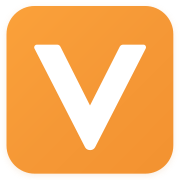
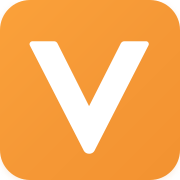
feat(branding): refresh Vecsy identity assets

diff --git a/index.html b/index.html
@@ -9,33 +9,35 @@
       #root[data-booting] { min-height: 100vh; background: #0a0a0c; }
       #root[data-booting] > * { visibility: hidden; }
     </style>
-    <link rel="icon" type="image/svg+xml" href="/favicon.svg?v=346ae5fd" />
+    <link rel="icon" type="image/svg+xml" href="/favicon.svg?v=9f832763" />
+    <link rel="icon" type="image/png" sizes="32x32" href="/favicon-32.png" />
+    <link rel="icon" type="image/png" sizes="16x16" href="/favicon-16.png" />
     <link rel="apple-touch-icon" href="/apple-touch-icon.png" />
     <link rel="manifest" href="/manifest.json" />
 
-    <title>Vector Forge — Free Online SVG Editor in Your Browser</title>
-    <meta name="description" content="Vector Forge is a free browser-based SVG editor. Import any SVG, inspect and rearrange layers, edit fills, strokes and transforms live, and export optimized markup — no install, no account." />
+    <title>Vecsy — Free Online SVG Editor in Your Browser</title>
+    <meta name="description" content="Vecsy is a free browser-based SVG editor. Import any SVG, inspect and rearrange layers, edit fills, strokes and transforms live, and export optimized markup — no install, no account." />
     <meta name="keywords" content="SVG editor, online SVG editor, browser SVG editor, free SVG editor, edit SVG layers, SVG path editor, vector editor" />
-    <link rel="canonical" href="https://vector-forge.wangruofeng007.com/" />
+    <link rel="canonical" href="https://vecsy.top/" />
 
     <!-- Open Graph -->
     <meta property="og:type" content="website" />
-    <meta property="og:site_name" content="Vector Forge" />
-    <meta property="og:title" content="Vector Forge — Free Online SVG Editor in Your Browser" />
+    <meta property="og:site_name" content="Vecsy" />
+    <meta property="og:title" content="Vecsy — Free Online SVG Editor in Your Browser" />
     <meta property="og:description" content="Import any SVG, inspect and rearrange layers, edit fills, strokes and transforms live, and export optimized markup — no install, no account." />
-    <meta property="og:url" content="https://vector-forge.wangruofeng007.com/" />
+    <meta property="og:url" content="https://vecsy.top/" />
     <meta property="og:locale" content="en_US" />
     <meta property="og:locale:alternate" content="zh_CN" />
-    <meta property="og:image" content="https://vector-forge.wangruofeng007.com/og-image.png" />
+    <meta property="og:image" content="https://vecsy.top/og-image.png" />
     <meta property="og:image:width" content="1200" />
     <meta property="og:image:height" content="630" />
-    <meta property="og:image:alt" content="Vector Forge — browser SVG editor with layers, live preview and export" />
+    <meta property="og:image:alt" content="Vecsy — browser SVG editor with layers, live preview and export" />
 
     <!-- Twitter -->
     <meta name="twitter:card" content="summary_large_image" />
-    <meta name="twitter:title" content="Vector Forge — Free Online SVG Editor in Your Browser" />
+    <meta name="twitter:title" content="Vecsy — Free Online SVG Editor in Your Browser" />
     <meta name="twitter:description" content="Import any SVG, inspect and rearrange layers, edit fills, strokes and transforms live, and export optimized markup — no install, no account." />
-    <meta name="twitter:image" content="https://vector-forge.wangruofeng007.com/og-image.png" />
+    <meta name="twitter:image" content="https://vecsy.top/og-image.png" />
 
     <!-- Structured data -->
     <script type="application/ld+json">
@@ -44,9 +46,9 @@
         "@graph": [
           {
             "@type": "WebApplication",
-            "@id": "https://vector-forge.wangruofeng007.com/#app",
-            "name": "Vector Forge",
-            "url": "https://vector-forge.wangruofeng007.com/",
+            "@id": "https://vecsy.top/#app",
+            "name": "Vecsy",
+            "url": "https://vecsy.top/",
             "description": "Free browser-based SVG editor. Import any SVG, inspect and rearrange layers, edit fills, strokes and transforms live, and export optimized markup.",
             "applicationCategory": "DesignApplication",
             "operatingSystem": "Web",
@@ -70,23 +72,23 @@
               "price": "0",
               "priceCurrency": "USD"
             },
-            "publisher": { "@id": "https://vector-forge.wangruofeng007.com/#org" },
-            "isPartOf": { "@id": "https://vector-forge.wangruofeng007.com/#website" }
+            "publisher": { "@id": "https://vecsy.top/#org" },
+            "isPartOf": { "@id": "https://vecsy.top/#website" }
           },
           {
             "@type": "WebSite",
-            "@id": "https://vector-forge.wangruofeng007.com/#website",
-            "url": "https://vector-forge.wangruofeng007.com/",
-            "name": "Vector Forge",
+            "@id": "https://vecsy.top/#website",
+            "url": "https://vecsy.top/",
+            "name": "Vecsy",
             "inLanguage": ["en", "zh"],
-            "publisher": { "@id": "https://vector-forge.wangruofeng007.com/#org" }
+            "publisher": { "@id": "https://vecsy.top/#org" }
           },
           {
             "@type": "Organization",
-            "@id": "https://vector-forge.wangruofeng007.com/#org",
-            "name": "Vector Forge",
-            "url": "https://vector-forge.wangruofeng007.com/",
-            "logo": "https://vector-forge.wangruofeng007.com/icon-512.png"
+            "@id": "https://vecsy.top/#org",
+            "name": "Vecsy",
+            "url": "https://vecsy.top/",
+            "logo": "https://vecsy.top/icon-512.png"
           }
         ]
       }
@@ -98,9 +100,9 @@
         静态 SEO 兜底文案：爬虫与禁用 JS 的客户端首屏可见。
         React createRoot 渲染时会清空 #root 并替换为完整应用，不会出现 hydration mismatch（未用 hydrateRoot）。
       -->
-      <h1>Vector Forge — Free Online SVG Editor in Your Browser</h1>
+      <h1>Vecsy — Free Online SVG Editor in Your Browser</h1>
       <p>
-        Vector Forge is a free, browser-based SVG editor. Drop in any SVG to inspect its layers,
+        Vecsy is a free, browser-based SVG editor. Drop in any SVG to inspect its layers,
         fine-tune fills, strokes and transforms in real time, and export clean, optimized markup.
         No install, no account — everything runs locally in your browser.
       </p>

diff --git a/public/404.html b/public/404.html
@@ -5,7 +5,7 @@
     <meta name="viewport" content="width=device-width, initial-scale=1.0" />
     <meta name="theme-color" content="#10192b" />
     <meta name="robots" content="noindex" />
-    <link rel="icon" type="image/svg+xml" href="/favicon.svg?v=cfb37f60" />
+    <link rel="icon" type="image/svg+xml" href="/favicon.svg?v=9f832763" />
     <title>404 — Page Not Found | Vector Forge</title>
     <meta name="description" content="This page does not exist on Vector Forge. Return to the SVG editor." />
     <link rel="canonical" href="https://vector-forge.wangruofeng007.com/404.html" />
